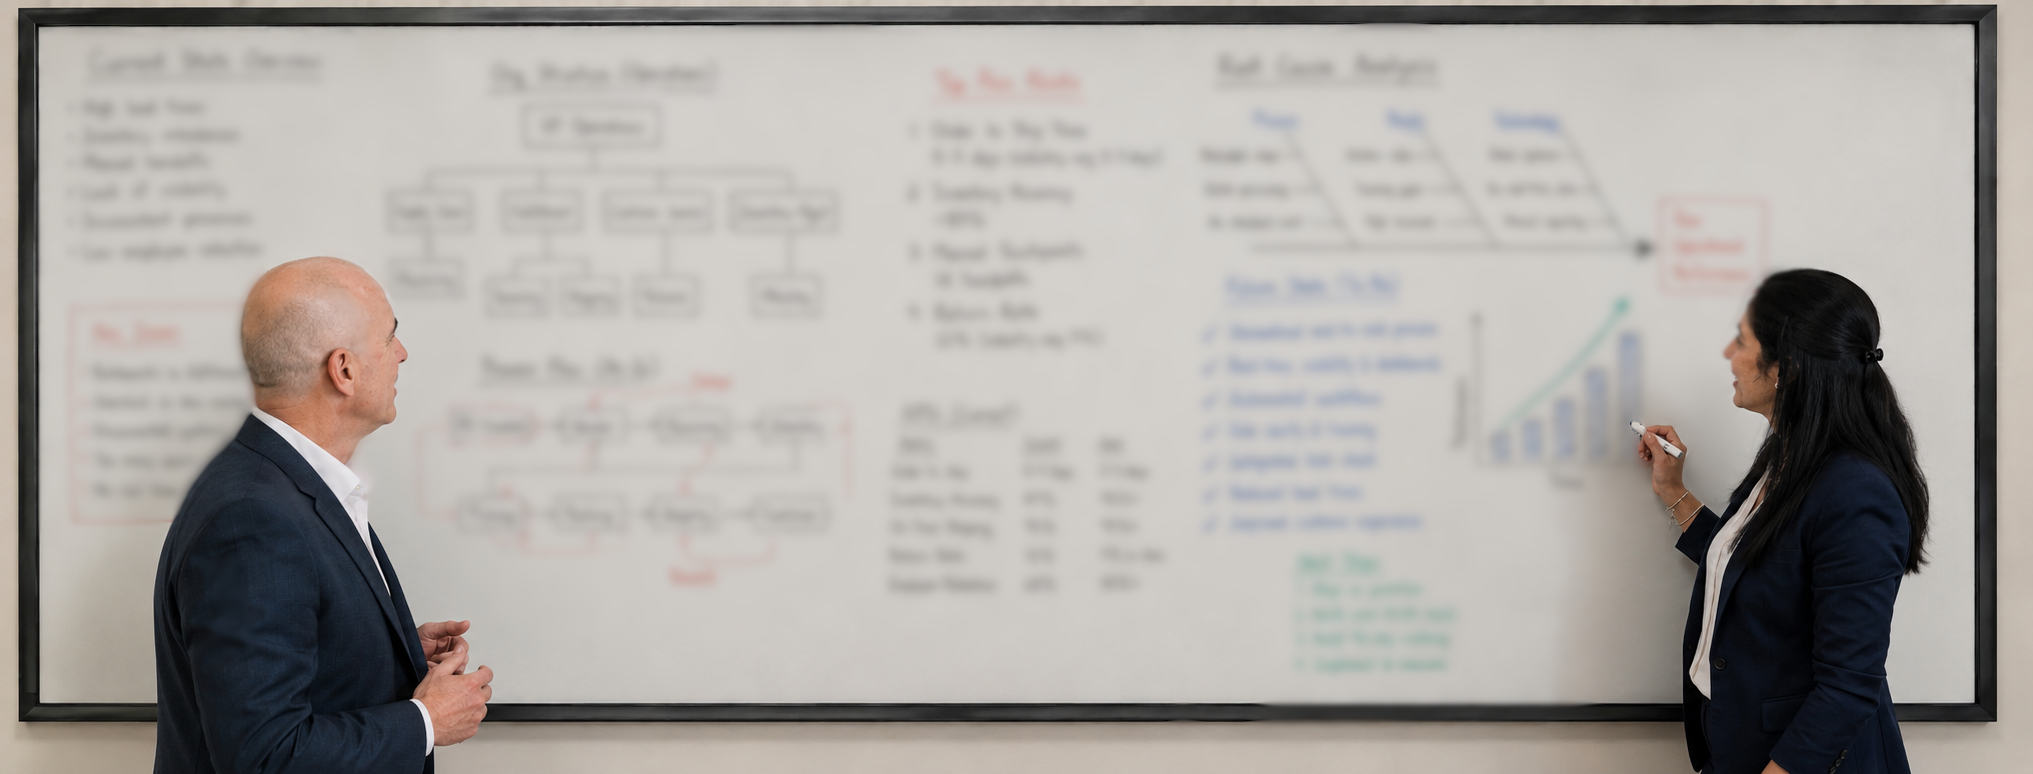
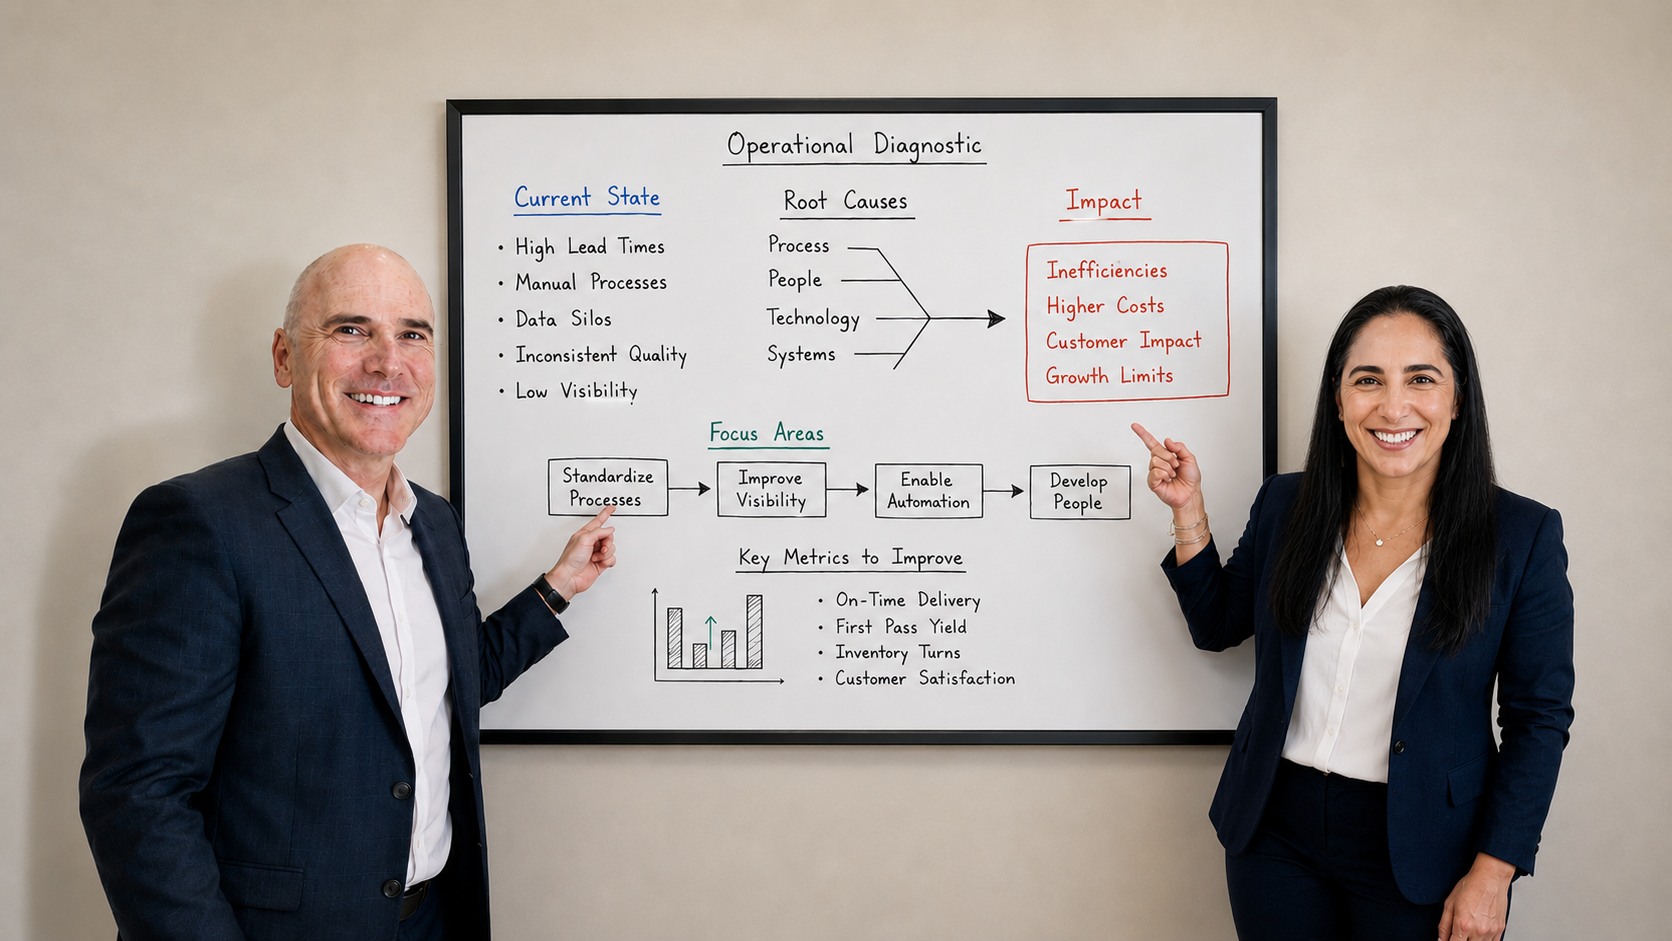
Add files via upload

diff --git a/blog.html b/blog.html
@@ -112,124 +112,9 @@
         <div class="eyebrow">Insights</div>
         <h1 data-split>Notes from the<br><span class="italic-gold">operating floor.</span></h1>
         <p class="lead">Essays on operational infrastructure, scaling growth-stage companies, and leading technical teams, written by operators, not commentators. No frameworks for the sake of frameworks. Just what we've seen work at scale.</p>
-        <div class="subscribe-inline">
-          <input type="email" placeholder="your@email.com" aria-label="Email address" />
-          <a href="#" class="btn btn-gold btn-sm" onclick="this.textContent='Subscribed ✓'; return false;">Get new essays</a>
+        <div class="subscribe-inline" style="justify-content:center; align-items:center; max-width:none;">
+          <span class="coming-soon-badge">Coming soon</span>
         </div>
-      </div>
-    </div>
-  </section>
-
-  <!-- FEATURED POST -->
-  <section class="section" style="padding-top:60px;">
-    <div class="container">
-      <article class="post-featured glass glass-int reveal">
-        <div class="img-ph">
-          <div class="ph-shimmer"></div>
-          <div class="ph-inner">
-            <div class="ph-kicker">Featured essay, image placeholder</div>
-            <div class="ph-title">The founder at the center of every decision</div>
-            <div class="ph-note">Replace with editorial cover art or photo</div>
-          </div>
-        </div>
-        <div class="post-body">
-          <div class="post-meta"><span class="cat">Operations &amp; Scaling</span><span class="date">Coming soon</span></div>
-          <h3>You Are the Bottleneck: The Uncomfortable Math of Founder-Led Operations</h3>
-          <p class="excerpt">Every growth-stage company hits the same wall: the founder who built the business becomes the constraint on it. Here's how to see it in your own calendar, and the operational infrastructure that removes it.</p>
-          <span class="post-link">Read essay <span class="arrow">→</span></span>
-        </div>
-      </article>
-
-      <div class="post-grid">
-        <article class="post-card glass glass-int reveal">
-          <div class="img-ph post-thumb">
-            <div class="ph-shimmer"></div>
-            <div class="ph-inner">
-              <div class="ph-kicker">Image placeholder</div>
-            </div>
-          </div>
-          <div class="post-body">
-            <div class="post-meta"><span class="cat">Founder Playbooks</span><span class="date">Coming soon</span></div>
-            <h3>What a Fractional COO Actually Does (And When You Need One)</h3>
-            <p class="excerpt">The honest breakdown: fractional COO vs. full-time hire vs. consultant, costs, timelines, and the signals that tell you which one your stage requires.</p>
-            <span class="post-link">Read essay <span class="arrow">→</span></span>
-          </div>
-        </article>
-
-        <article class="post-card glass glass-int reveal">
-          <div class="img-ph post-thumb">
-            <div class="ph-shimmer"></div>
-            <div class="ph-inner">
-              <div class="ph-kicker">Image placeholder</div>
-            </div>
-          </div>
-          <div class="post-body">
-            <div class="post-meta"><span class="cat">Leadership</span><span class="date">Coming soon</span></div>
-            <h3>The IC-to-Manager Transition Is Broken. Here's How to Fix It.</h3>
-            <p class="excerpt">Why promoting your best engineer without leadership training costs you twice: the manager you didn't create and the IC you lost, and what to do instead.</p>
-            <span class="post-link">Read essay <span class="arrow">→</span></span>
-          </div>
-        </article>
-
-        <article class="post-card glass glass-int reveal">
-          <div class="img-ph post-thumb">
-            <div class="ph-shimmer"></div>
-            <div class="ph-inner">
-              <div class="ph-kicker">Image placeholder</div>
-            </div>
-          </div>
-          <div class="post-body">
-            <div class="post-meta"><span class="cat">Operations &amp; Scaling</span><span class="date">Coming soon</span></div>
-            <h3>Operational Infrastructure: The Unsexy Reason Companies Stall at $5M</h3>
-            <p class="excerpt">Metrics, accountability systems, and process design, the boring machinery that separates companies that scale from companies that plateau.</p>
-            <span class="post-link">Read essay <span class="arrow">→</span></span>
-          </div>
-        </article>
-
-        <article class="post-card glass glass-int reveal">
-          <div class="img-ph post-thumb">
-            <div class="ph-shimmer"></div>
-            <div class="ph-inner">
-              <div class="ph-kicker">Image placeholder</div>
-            </div>
-          </div>
-          <div class="post-body">
-            <div class="post-meta"><span class="cat">Founder Playbooks</span><span class="date">Coming soon</span></div>
-            <h3>How to Run a Leadership Meeting That Actually Decides Things</h3>
-            <p class="excerpt">Most leadership meetings are status theater. A field-tested structure for meetings where decisions get made, owned, and executed.</p>
-            <span class="post-link">Read essay <span class="arrow">→</span></span>
-          </div>
-        </article>
-
-        <article class="post-card glass glass-int reveal">
-          <div class="img-ph post-thumb">
-            <div class="ph-shimmer"></div>
-            <div class="ph-inner">
-              <div class="ph-kicker">Image placeholder</div>
-            </div>
-          </div>
-          <div class="post-body">
-            <div class="post-meta"><span class="cat">Operations &amp; Scaling</span><span class="date">Coming soon</span></div>
-            <h3>Supply Chain Red Flags Every Growth-Stage Founder Ignores</h3>
-            <p class="excerpt">Single points of failure, vendor sprawl, and lead-time drift, the early warnings we look for in week one of every engagement.</p>
-            <span class="post-link">Read essay <span class="arrow">→</span></span>
-          </div>
-        </article>
-
-        <article class="post-card glass glass-int reveal">
-          <div class="img-ph post-thumb">
-            <div class="ph-shimmer"></div>
-            <div class="ph-inner">
-              <div class="ph-kicker">Image placeholder</div>
-            </div>
-          </div>
-          <div class="post-body">
-            <div class="post-meta"><span class="cat">Leadership</span><span class="date">Coming soon</span></div>
-            <h3>Motivating Engineers Without Authority: The Science That Holds Up</h3>
-            <p class="excerpt">What organizational psychology actually says about driving performance in technical teams, stripped of the LinkedIn-post version.</p>
-            <span class="post-link">Read essay <span class="arrow">→</span></span>
-          </div>
-        </article>
       </div>
     </div>
   </section>

diff --git a/styles.css b/styles.css
@@ -277,13 +277,7 @@ h1, h2, h3, h4, p { margin: 0; }
 
 .italic-gold {
   font-style: italic;
-}
-.italic-gold, .italic-gold .w {
   color: var(--gold-500);
-  background: linear-gradient(120deg, var(--gold-500), var(--gold-600) 55%, var(--gold-500));
-  -webkit-background-clip: text;
-  background-clip: text;
-  -webkit-text-fill-color: transparent;
 }
 
 /* ---------------------------------------------------------------------- */
@@ -292,22 +286,16 @@ h1, h2, h3, h4, p { margin: 0; }
 
 .wm {
   display: inline-block;
-  overflow: hidden;
   vertical-align: bottom;
-  padding-top: 0.12em;
-  margin-top: -0.12em;
-  padding-bottom: 0.14em;
-  margin-bottom: -0.14em;
-  padding-right: 0.1em;
-  margin-right: -0.1em;
 }
 .wm .w {
   display: inline-block;
-  transform: translateY(112%);
-  transition: transform 0.9s var(--ease-glass);
-  will-change: transform;
+  opacity: 0;
+  transform: translateY(0.25em);
+  transition: opacity 0.7s var(--ease-glass), transform 0.7s var(--ease-glass);
+  will-change: opacity, transform;
 }
-.split-in .wm .w { transform: translateY(0); }
+.split-in .wm .w { opacity: 1; transform: translateY(0); }
 
 /* ---------------------------------------------------------------------- */
 /* Buttons                                                                 */
@@ -334,7 +322,7 @@ h1, h2, h3, h4, p { margin: 0; }
 .btn-gold {
   color: #2a2008;
   background: linear-gradient(150deg, #f2dda3, #dcb45f 45%, #b98a34);
-  box-shadow: 0 12px 30px -10px rgba(184, 146, 63, 0.55), inset 0 1px 0 rgba(255, 255, 255, 0.6);
+  box-shadow: 0 12px 30px -10px rgba(184, 146, 63, 0.55);
 }
 /* Sheen stays hidden off the left edge and only sweeps across on hover / press */
 .btn-gold::after {
@@ -359,7 +347,7 @@ h1, h2, h3, h4, p { margin: 0; }
 }
 .btn-gold:hover {
   transform: translateY(-2px);
-  box-shadow: 0 18px 40px -12px rgba(184, 146, 63, 0.7), inset 0 1px 0 rgba(255, 255, 255, 0.6);
+  box-shadow: 0 18px 40px -12px rgba(184, 146, 63, 0.7);
 }
 
 .btn-glass {
@@ -1962,11 +1950,11 @@ table.compare-table {
 .compare-table th, .compare-table td {
   padding: 18px 22px;
   text-align: left;
-  font-size: 15px;
+  font-size: 17px;
   border-bottom: 1px solid var(--hairline);
 }
 .compare-table thead th {
-  font-size: 11.5px;
+  font-size: 13px;
   font-weight: 700;
   letter-spacing: 0.1em;
   text-transform: uppercase;
@@ -2058,7 +2046,7 @@ table.compare-table {
 }
 .module-card .module-tagline {
   margin-top: 8px;
-  font-size: 14px;
+  font-size: 15.5px;
   color: var(--gold-300);
   font-style: italic;
 }
@@ -2069,13 +2057,13 @@ table.compare-table {
   gap: 20px;
 }
 .module-sub h4 {
-  font-size: 13.5px;
+  font-size: 15.5px;
   font-weight: 600;
   color: var(--white-90);
 }
 .module-sub p {
   margin-top: 8px;
-  font-size: 13px;
+  font-size: 14.5px;
   line-height: 1.6;
   color: var(--white-50);
 }
@@ -2114,7 +2102,7 @@ table.compare-table {
   align-items: flex-start;
   padding: 18px 20px;
   border-radius: var(--radius-md);
-  font-size: 15px;
+  font-size: 17px;
   color: var(--white-70);
   line-height: 1.55;
 }
@@ -2242,6 +2230,20 @@ table.compare-table {
 }
 .subscribe-inline input:focus { border-color: var(--gold-400); }
 .subscribe-inline .btn { flex-shrink: 0; }
+.coming-soon-badge {
+  display: inline-flex;
+  align-items: center;
+  width: fit-content;
+  padding: 14px 26px;
+  border-radius: 999px;
+  border: 1px solid var(--glass-border-gold);
+  background: rgba(221, 188, 120, 0.08);
+  font-size: 12px;
+  font-weight: 700;
+  letter-spacing: 0.14em;
+  text-transform: uppercase;
+  color: var(--gold-300);
+}
 
 /* ---------------------------------------------------------------------- */
 /* Simple pages (privacy / accessibility)                                 */
@@ -2387,6 +2389,6 @@ table.compare-table {
   .img-ph .ph-shimmer { animation: none !important; }
   .problem-card p { max-height: none; opacity: 1; transform: none; margin-top: 14px; }
   .reveal { opacity: 1; transform: none; transition: none; }
-  .wm .w { transform: none; transition: none; }
+  .wm .w { transform: none; transition: none; opacity: 1; }
   html { scroll-behavior: auto; }
 }

diff --git a/index.html b/index.html
@@ -203,7 +203,6 @@
         <img class="ph-photo" src="assets/whiteboard.png" alt="Mariam and Sean in a working session, whiteboard full" loading="lazy" />
       </div>
       <div class="story-caption">
-        <span>Whiteboard blurred to protect sensitive information</span>
         <span class="cap-line"></span>
         <span>Headroom Advisors, Field Notes</span>
       </div>
@@ -224,7 +223,6 @@
 
         <a class="svc glass glass-int reveal" href="advisory.html" id="advisory" aria-label="Advisory Session, learn more and apply">
           <div class="glass-sheen"></div>
-          <div class="svc-num">I</div>
           <div class="svc-top">
             <div class="service-tag">Entry Point</div>
             <h3>Advisory Session</h3>
@@ -243,7 +241,6 @@
 
         <a class="svc glass glass-int reveal" href="workshop.html" id="workshop" aria-label="Engineering Leadership Workshop, learn more and apply">
           <div class="glass-sheen"></div>
-          <div class="svc-num">II</div>
           <div class="svc-top">
             <div class="service-tag">For Engineering Teams</div>
             <h3>Engineering Leadership Workshop</h3>
@@ -262,7 +259,6 @@
 
         <a class="svc glass glass-int reveal" href="project.html" id="project" aria-label="Project Engagement, learn more and apply">
           <div class="glass-sheen"></div>
-          <div class="svc-num">III</div>
           <div class="svc-top">
             <div class="service-tag">Scoped Engagement</div>
             <h3>Project Engagement</h3>
@@ -281,7 +277,6 @@
 
         <a class="svc glass glass-int featured reveal" href="fractional-coo.html" id="fractional-coo" aria-label="Fractional COO and Ongoing Advisory, learn more and apply">
           <div class="glass-sheen"></div>
-          <div class="svc-num">IV</div>
           <div class="svc-top">
             <div class="service-tag">Ongoing Partnership</div>
             <h3>Fractional COO &amp; Ongoing Advisory</h3>

diff --git a/advisory.html b/advisory.html
@@ -124,7 +124,7 @@
         <div class="reveal">
           <div class="eyebrow">Advisory Session</div>
           <h1 data-split>Two hours.<br>A clear diagnosis.<br><span class="italic-gold">A concrete path forward.</span></h1>
-          <p class="lead">Most founders don't need more information, they need someone who has operated at scale to look at their specific situation, tell them what they're actually dealing with, and hand them a written prescription for what to do next. That's this.</p>
+          <p class="lead">Most founders don't need more information. They are drowning in it. They need someone who has operated at scale to look at their situation, name the two or three things that actually matter, and say what to do first. You leave with a decision, not options to evaluate.</p>
           <div class="page-hero-actions">
             <a href="#apply" class="btn btn-gold magnetic">Book a session</a>
             <a href="index.html#services" class="btn btn-glass">View all services</a>
